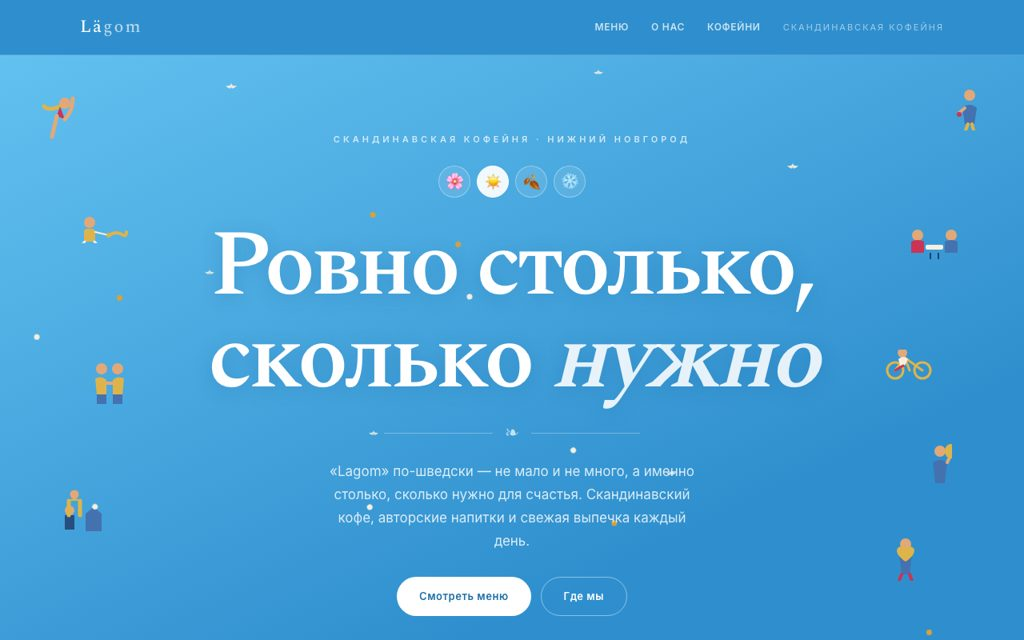
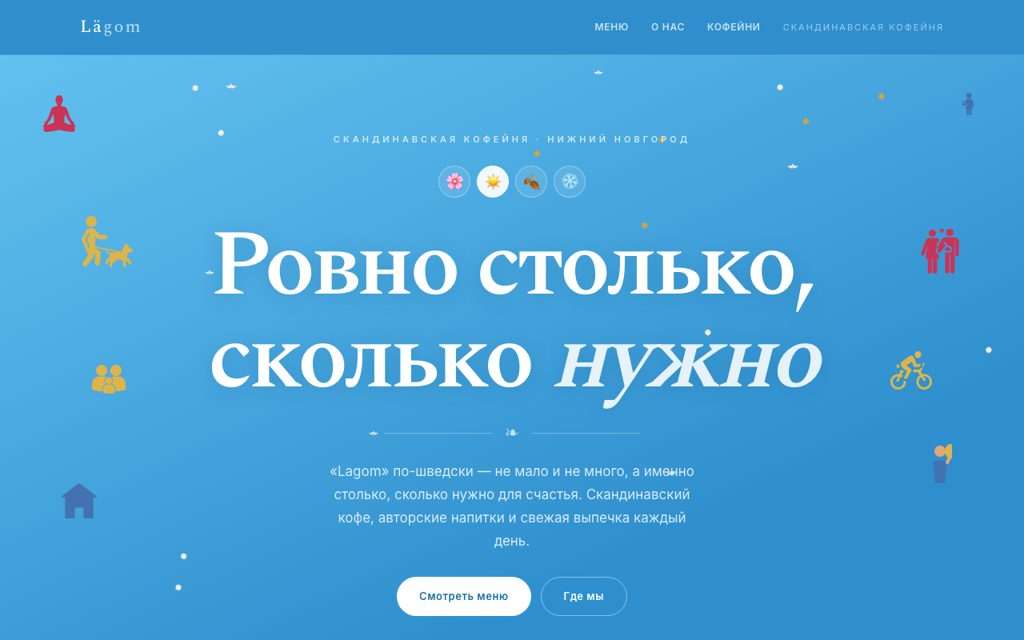
lagom: заменил самодельные иконки на готовые с svgrepo.com (CC0)
Собственноручно нарисованные фигуры людей выглядели плохо. Нашёл и скачал
7 готовых силуэтов на svgrepo.com (лицензия CC0, без атрибуции):
йога, женщина с чашкой, прогулка с собакой, объятия+сердце, семья,
велосипедистка, дом. Перекрасил через fill=var(--book-*) в палитру
обложки книги — коралл/горчичный/синий. Позиции и hf--mid-скрытие на
мобильном сохранены как были (уже проверены на коллизии с текстом).

Исходники и ссылки на источники — в lagom/icons-src/SOURCES.md.
Обновлена превью-миниатюра галереи.

diff --git a/lagom/index.html b/lagom/index.html
@@ -9,7 +9,7 @@
   <link rel="preconnect" href="https://fonts.googleapis.com">
   <link rel="preconnect" href="https://fonts.gstatic.com" crossorigin>
   <link href="https://fonts.googleapis.com/css2?family=Spectral:wght@400;500;600&family=Inter:wght@400;500;600&display=swap" rel="stylesheet">
-  <link rel="stylesheet" href="styles.css?v=3">
+  <link rel="stylesheet" href="styles.css?v=4">
 </head>
 <body>
   <!-- Заставка загрузки: две книги «с торца» разлетаются страницами и сходятся
@@ -42,81 +42,143 @@
   </header>
 
   <section class="hero">
-    <!-- SVG-иллюстрации в стиле настоящей обложки книги «Lagom: The Swedish
-         Secret of Living Well» (Lola A. Åkerström): плоские фигурки людей —
-         йога, прогулка с собакой, кофейня вдвоём, объятия, велосипед,
-         ребёнок на плечах у дома, воздушный шар, сердце — плюс белые ростки. -->
+    <!-- Иконки — готовые SVG с svgrepo.com (лицензия CC0, см. icons-src/SOURCES.md),
+         перекрашены в палитру обложки книги Lagom. Не рисовал сам — руки не доходят
+         до качественных фигур людей, поэтому берём готовые силуэты. -->
     <div class="hero__figures" aria-hidden="true">
 
-      <!-- 🤸 Растяжка/йога — левый верх -->
-      <svg class="hf" style="left:4%;top:6%" width="46" height="58" viewBox="0 0 46 58">
-        <circle cx="30" cy="10" r="7" fill="var(--book-skin)"/>
-        <path d="M24 14Q10 20 4 14" stroke="var(--book-mustard)" stroke-width="5" stroke-linecap="round" fill="none"/>
-        <path d="M24 14L30 30L20 26" fill="var(--book-coral)"/>
-        <path d="M20 26L14 52" stroke="var(--book-skin)" stroke-width="5" stroke-linecap="round"/>
-        <path d="M30 30Q40 20 40 4" stroke="var(--book-skin)" stroke-width="5" stroke-linecap="round" fill="none"/>
+      <!-- 🧘 Йога — левый верх -->
+      <svg class="hf" style="left:4%;top:6%" width="46" height="46" viewBox="0 0 512 512">
+        <path fill="var(--book-coral)" d="M482.752,435.574c-6.928-8.1-23.127-40.492-23.127-40.492s2.676-3.448,0-15.051
+        c-3.48-15.035-18.514-13.886-21.978-17.349c-3.479-3.472-33.549-58.424-35.863-64.792c-2.314-6.369-27.772-78.662-27.772-78.662
+        c-8.549-37.604-24.308-53.221-45.121-57.85c-20.64-4.581-31.817-3.471-41.075-11.571c-5.778-5.054-5.573-8.809-5.573-24.056
+        c0,0,6.235-5.927,10.784-14.122c5.195-9.375,7.746-22.907,7.746-22.907c5.211-2.086,5.274-4.684,7.525-12.965
+        c3.118-11.461,2.897-19.317-5.431-19.317C304.836,19.066,286.085,0,256,0c-30.07,0-48.821,19.066-46.853,56.441
+        c-8.328,0-8.564,7.856-5.432,19.317c2.251,8.281,2.314,10.879,7.51,12.965c0,0,2.55,13.532,7.762,22.907
+        c4.55,8.194,10.784,14.122,10.784,14.122c0,15.247,0.189,19.002-5.589,24.056c-9.242,8.1-20.435,6.99-41.059,11.571
+        c-20.828,4.628-36.572,20.246-45.12,57.85c0,0-25.457,72.294-27.771,78.662c-2.314,6.368-32.401,61.32-35.864,64.792
+        c-3.464,3.463-18.514,2.314-21.978,17.349c-2.676,11.603,0,15.051,0,15.051s-16.2,32.392-23.143,40.492
+        c-6.942,8.092,5.794,13.878,13.886,3.464c0.944,1.409,4.156,2.424,7.793,2.912c-28.228,31.251-12.138,71.964,31.55,69.98
+        C118.291,510.3,256,485.316,256,485.316S393.707,510.3,429.54,511.93c43.688,1.984,59.778-38.729,31.534-69.98
+        c3.652-0.488,6.864-1.503,7.808-2.912C476.974,449.452,489.695,443.666,482.752,435.574z M183.123,383.849
+        c0,0-59.274,17.626-96.192,34.234c7.604-14.154,16.357-33.423,16.357-33.423l37.029-53.212l29.504-64.218
+        c0,0,9.257,34.714,12.138,39.917C184.855,312.35,183.123,383.849,183.123,383.849z M328.891,383.849c0,0-1.732-71.498,1.149-76.702
+        c2.897-5.203,12.154-39.917,12.154-39.917l29.504,64.218l37.013,53.212c0,0,8.769,19.27,16.373,33.423
+        C388.165,401.474,328.891,383.849,328.891,383.849z"/>
       </svg>
 
-      <!-- 🥤 Женщина с напитком — правый верх -->
-      <svg class="hf" style="right:4%;top:5%" width="34" height="52" viewBox="0 0 34 52">
-        <circle cx="17" cy="8" r="7" fill="var(--book-skin)"/>
-        <path d="M8 24Q17 16 26 24L23 44H11Z" fill="var(--book-navy)"/>
-        <path d="M11 24L4 30" stroke="var(--book-skin)" stroke-width="4" stroke-linecap="round"/>
-        <circle cx="4" cy="32" r="3" fill="var(--book-coral)"/>
-        <path d="M15 44L12 52M20 44L22 52" stroke="var(--book-mustard)" stroke-width="4" stroke-linecap="round"/>
+      <!-- ☕ Женщина с чашкой — правый верх -->
+      <svg class="hf" style="right:4%;top:5%" width="38" height="38" viewBox="0 0 395 395">
+        <path fill="var(--book-navy)" d="M209.202,125.721c20.686,0,37.459-16.761,37.459-37.445c0-20.682-16.773-37.449-37.459-37.449
+        c-20.678,0-37.453,16.768-37.453,37.449C171.749,108.96,188.524,125.721,209.202,125.721z"/>
+        <path fill="var(--book-navy)" d="M272.543,222.612c-2.979-39.672-7.764-60.239-17.063-73.355c-11.97-16.884-30.162-18.298-46.275-18.298
+        c-16.666,0-30.262,6.383-40.41,18.971c-7.986,9.907-12.287,21.683-15.743,31.145c-1.527,4.181-3.618,9.906-4.8,11.333
+        c-4.733,5.313-9.021,4.904-11.582,4.66c-0.627-0.06-1.139-0.099-1.521-0.114c-0.16-0.006-0.318-0.009-0.477-0.009
+        c-6.347,0-11.612,5.016-11.865,11.413c-0.257,6.507,4.77,11.998,11.255,12.335l0.351,0.033
+        c12.509,1.193,23.13-3.018,31.585-12.512c4.138-4.646,6.566-11.291,9.375-18.985c1.267-3.468,2.516-6.757,3.814-9.835v28.464
+        L162.22,265.54c-0.3,1.012-0.102,2.099,0.528,2.943c0.631,0.84,1.622,1.336,2.671,1.336h14.605v60.491
+        c0,7.656,6.206,13.862,13.862,13.862c7.656,0,13.862-6.207,13.862-13.862v-60.491h6.242v60.491
+        c0,7.656,6.206,13.862,13.862,13.862c7.656,0,13.862-6.207,13.862-13.862v-60.491h13.239c0.011,0,0.021,0,0.026,0
+        c1.844,0,3.334-1.495,3.334-3.335c0-0.463-0.094-0.906-0.261-1.305l-15.496-52.682v-33.781
+        c2.744,10.599,4.771,25.487,6.287,45.675c0.469,6.241,5.678,10.993,11.836,10.993c0.299,0,0.6-0.011,0.902-0.034
+        C268.128,234.858,273.034,229.155,272.543,222.612z"/>
+        <path fill="var(--book-navy)" d="M127.651,192.15h14.065c1.029,0,1.883-0.771,2.003-1.79l3.21-29.349c0.063-0.567-0.115-1.133-0.499-1.56
+        c-0.382-0.427-0.924-0.67-1.499-0.67h-20.495c-0.582,0-1.117,0.243-1.5,0.67c-0.388,0.426-0.561,0.992-0.502,1.56l3.213,29.349
+        C125.764,191.378,126.617,192.15,127.651,192.15z"/>
       </svg>
 
       <!-- 🐕 Прогулка с собакой — левая сторона -->
-      <svg class="hf hf--mid" style="left:8%;top:24%" width="60" height="34" viewBox="0 0 60 34">
-        <circle cx="10" cy="8" r="7" fill="var(--book-skin)"/>
-        <rect x="3" y="16" width="14" height="16" rx="4" fill="var(--book-mustard)"/>
-        <path d="M4 32L2 34M16 32L18 34" stroke="var(--book-cream)" stroke-width="3" stroke-linecap="round"/>
-        <path d="M17 20L34 24" stroke="var(--book-cream)" stroke-width="2" stroke-linecap="round"/>
-        <path d="M34 24Q44 18 52 24Q56 26 56 20" fill="none" stroke="var(--book-mustard)" stroke-width="4" stroke-linecap="round"/>
-        <circle cx="34" cy="24" r="3" fill="var(--book-mustard)"/>
+      <svg class="hf hf--mid" style="left:8%;top:24%" width="64" height="64" viewBox="0 0 421.127 421.127">
+        <circle fill="var(--book-mustard)" cx="79.697" cy="45.647" r="44.954"/>
+        <path fill="var(--book-mustard)" d="M420.741,275.908c-0.592-1.569-1.814-2.819-3.369-3.447l-19.988-8.063c-1.51-6.524-6.424-11.762-12.761-13.732
+        l-1.035-11.936c-0.206-2.377-1.801-4.405-4.062-5.167c-2.26-0.762-4.758-0.112-6.361,1.655l-3.758,4.145l-2.643-9.25
+        c-0.715-2.502-2.96-4.258-5.561-4.348c-2.615-0.117-4.963,1.506-5.85,3.951l-23.17,63.923l-219.549-44.286v-81.008l15.211,16.391
+        c3.48,4.053,8.531,6.374,13.882,6.374c0.001,0,0,0,0,0c0.163,0-0.162-0.018,0-0.021c0.02,0-0.02,0.003,0,0.003h53.445
+        c10.191,0,18.483-8.29,18.483-18.48c0-10.194-8.292-18.487-18.483-18.487h-45.195l-43.673-46.89c-0.266-0.286,0.304,0.223,0,0
+        c-4.289-4.592-10.392-7.471-17.156-7.471H60.558c-8.589,0-16.112,4.637-20.208,11.536c-0.161,0.228,0.131-0.254,0,0L1.859,186.063
+        c-0.054,0.105-0.104,0.212-0.152,0.319c-2.406,5.451-2.174,11.397,0.107,16.442c0.075,0.213-0.1-0.205,0,0l54.21,118.127
+        l-43.917,59.643c-7.406,8.859-6.317,22.1,2.467,29.608l0.492,0.423c3.823,3.269,8.696,5.068,13.723,5.068
+        c6.194,0,12.053-2.698,16.075-7.403c0.095-0.11-0.086,0.117,0,0c0,0,54.303-73.986,54.489-74.714
+        c2.741-5.021,3.475-11.12,1.485-16.948c-0.062-0.182,0.079,0.174,0,0l-5.771-12.831l18.963,13.314l-7.106,67.516
+        c-0.619,5.612,0.983,11.129,4.513,15.534c3.53,4.406,8.565,7.174,14.164,7.79l0.638,0.072c0.774,0.085,1.559,0.129,2.334,0.129
+        c10.781,0,19.804-8.092,20.992-18.852l8.04-76.408c2.39-8.137-0.261-17.274-7.381-22.74c-0.042-0.032-0.083-0.064-0.126-0.095
+        l-37.461-27.231v-1.232l180.3,36.369l-46.69,3.386c-13.112,1.098-26.044-4.206-34.578-14.179c-2.155-2.517-5.942-2.811-8.46-0.657
+        c-2.518,2.154-2.812,5.942-0.657,8.46c9.326,10.897,22.705,17.469,36.819,18.396c-5.609,6.695-10.614,16.822-11.536,31.984
+        l-19.735,8.772c-1.514,0.673-2.683,1.942-3.229,3.507l-10.598,30.399c-0.527,1.512-0.428,3.172,0.275,4.609
+        c0.703,1.439,1.951,2.536,3.467,3.05l8.152,2.759c0.637,0.216,1.286,0.318,1.924,0.318c2.448,0,4.74-1.51,5.631-3.931l7.274-19.78
+        l11.932-1.436l-3.517,4.242c-1.126,1.358-1.598,3.145-1.288,4.883l5.841,32.741c0.511,2.862,2.999,4.946,5.907,4.946h7.839
+        c1.772,0,3.453-0.783,4.593-2.14c1.14-1.357,1.622-3.147,1.318-4.893l-3.602-20.633l38.324-28.761
+        c0.087-0.065,0.173-0.134,0.258-0.204c2.994-2.515,5.336-5.227,7.182-8.028c12.523,2.986,27.655,6.389,40.982,8.807l7.879,50.771
+        c0.454,2.924,2.971,5.08,5.929,5.08h7.34c3.314,0,6-2.686,6-6v-44.575l13.528,2.949l16.908,27.682
+        c0.839,1.373,2.195,2.353,3.763,2.717c0.449,0.104,0.904,0.155,1.358,0.155c1.13,0,2.248-0.319,3.217-0.936l5.33-3.386
+        c2.414-1.533,3.41-4.557,2.38-7.225l-13.25-34.338c-0.59-1.53-1.781-2.752-3.296-3.381l-21.895-9.095l9.286-42.753
+        c1.655,0.222,3.322,0.343,4.999,0.343c14.338,0,27.462-8.381,34.248-21.871C421.241,279.224,421.333,277.478,420.741,275.908z
+         M67.671,150.447l-24.532,43.972l20.713,42.707c3.94,8.133,1.958,17.972-4.819,23.927c-1.139,1.002-2.552,1.493-3.958,1.493
+        c-1.666,0-3.323-0.689-4.509-2.039c-2.188-2.489-1.943-6.28,0.546-8.468c2.738-2.406,3.537-6.387,1.942-9.679l-22.076-45.517
+        c-0.855-1.762-0.795-3.831,0.159-5.541l26.055-46.701c1.614-2.895,5.27-3.932,8.163-2.316
+        C68.248,143.899,69.285,147.554,67.671,150.447z"/>
       </svg>
 
-      <!-- ☕ Двое за столиком в кофейне — правая сторона -->
-      <svg class="hf hf--mid" style="right:6%;top:26%" width="70" height="40" viewBox="0 0 70 40">
-        <circle cx="14" cy="8" r="7" fill="var(--book-skin)"/>
-        <circle cx="56" cy="8" r="7" fill="var(--book-skin)"/>
-        <path d="M6 30V16Q14 12 22 16V30Z" fill="var(--book-coral)"/>
-        <path d="M48 30V16Q56 12 64 16V30Z" fill="var(--book-navy)"/>
-        <rect x="24" y="20" width="22" height="6" rx="2" fill="var(--book-cream)"/>
-        <line x1="30" y1="30" x2="30" y2="38" stroke="var(--book-charcoal)" stroke-width="2"/>
-        <line x1="40" y1="30" x2="40" y2="38" stroke="var(--book-charcoal)" stroke-width="2"/>
+      <!-- 🤗 Объятия и сердце — правая сторона -->
+      <svg class="hf hf--mid" style="right:6%;top:26%" width="56" height="56" viewBox="0 0 512.001 512.001">
+        <g fill="var(--book-coral)">
+          <path d="M359.297,214.522l-26.905-7.326c-1.329,2.585-2.963,5.062-4.93,7.371l-23.11,27.141l44.26,12.052
+          c10.852,2.954,22.016-3.457,24.961-14.277C376.524,228.648,370.132,217.473,359.297,214.522z"/>
+          <path d="M423.585,97.714c-13.257,0-92.901,0-104.437,0c-18.719,0-36.355,10.207-45.497,27.144l-38.889,72.045
+          c-1.732,3.209-2.593,7.007-2.399,10.719l0.007-0.008c0.354,6.686,3.993,13.03,10.195,16.578l-14.415,16.93
+          c-7.141,8.388-6.132,20.976,2.256,28.117c8.386,7.141,20.975,6.134,28.117-2.256l54.846-64.414
+          c7.514-8.825,6.017-22.338-3.678-29.21l-11.258-8.802c0,0,5.828-11.375,10.847-18.905c0.739-1.11,2.118-1.604,3.394-1.218
+          c1.276,0.386,2.152,1.561,2.152,2.894v7.637c2.918,1.403,5.706,3.195,8.286,5.393c8.04,6.846,12.709,16.475,13.422,26.571
+          l28.184,7.674c21.836,5.945,34.719,28.467,28.772,50.303c-5.943,21.828-28.462,34.717-50.303,28.772l-28.362-7.722l0.009,221.643
+          c0,13.476,10.924,24.4,24.4,24.4c13.476,0,24.4-10.924,24.4-24.4V292.572h10.535v195.029c0,13.476,10.924,24.4,24.4,24.4
+          c13.476,0,24.4-10.924,24.4-24.4l-0.434-341.877c-0.003-2.347,1.897-4.253,4.244-4.256c2.347-0.003,4.253,1.896,4.256,4.244
+          c0,0.01,0,0.02,0,0.03l-0.359,149.281c-0.027,11.23,9.054,20.355,20.284,20.382c0.017,0,0.033,0,0.05,0
+          c11.206-0.001,20.305-9.072,20.331-20.284l0.36-149.38c0-0.05,0-0.1,0-0.151C471.571,119.191,449.985,97.714,423.585,97.714z"/>
+          <circle cx="368.9" cy="42.141" r="42.141"/>
+          <circle cx="169.421" cy="50.761" r="41.343"/>
+          <path d="M241.319,292.45c-8.146-0.423-16.222-3.423-22.911-9.12c-16.172-13.769-18.118-38.04-4.349-54.21l12.216-14.347
+          l-9.608-62.44l13.227,10.129l19.189-35.551l-12.876-9.86c-9.916-7.594-22.256-11.776-34.748-11.776c-35.721,0-36.428,0-66.586,0
+          c-21.349,0-36.865,13.654-46.119,40.584c-14.342,41.735-46.912,130.842-47.239,131.738c-3.783,10.346,1.538,21.799,11.883,25.582
+          c10.367,3.787,21.807-1.556,25.583-11.883c0.278-0.76,39.64-109.972,39.64-109.972S105.481,251.171,90.29,329.86
+          c-1.328,6.861,3.96,13.2,10.878,13.2c4.29,0,9.459,0,15.22,0v145.005c0,13.219,10.717,23.936,23.936,23.936
+          s23.936-10.717,23.936-23.936V343.06c3.441,0,6.893,0,10.334,0v145.005c0,13.219,10.717,23.936,23.936,23.936
+          s23.936-10.717,23.936-23.936V343.06c5.763,0,10.931,0,15.22,0c6.955,0,12.206-6.347,10.878-13.2L241.319,292.45z"/>
+          <path d="M289.492,0c-5.32,0-9.887,3.194-11.908,7.766C275.563,3.194,270.996,0,265.676,0c-7.191,0-13.021,5.83-13.021,13.021
+          c0,14.113,18.057,28.322,23.435,32.243c0.889,0.648,2.097,0.649,2.987,0.001c5.377-3.918,23.435-18.13,23.435-32.243
+          C302.513,5.83,296.683,0,289.492,0z"/>
+        </g>
       </svg>
 
-      <!-- 🤝 Объятия / за руки — середина -->
-      <svg class="hf hf--mid" style="left:9%;top:46%" width="44" height="52" viewBox="0 0 44 52">
-        <circle cx="12" cy="8" r="7" fill="var(--book-skin)"/>
-        <circle cx="32" cy="8" r="7" fill="var(--book-skin)"/>
-        <path d="M4 20Q12 16 18 22L18 40H6Z" fill="var(--book-mustard)"/>
-        <path d="M40 20Q32 16 26 22L26 40H38Z" fill="var(--book-mustard)"/>
-        <rect x="6" y="40" width="12" height="12" fill="var(--book-navy)"/>
-        <rect x="26" y="40" width="12" height="12" fill="var(--book-navy)"/>
-        <path d="M18 26L26 26" stroke="var(--book-skin)" stroke-width="4" stroke-linecap="round"/>
+      <!-- 👪 Семья — середина -->
+      <svg class="hf hf--mid" style="left:9%;top:46%" width="42" height="42" viewBox="0 0 98.666 98.666">
+        <g fill="var(--book-mustard)">
+          <circle cx="49.332" cy="53.557" r="10.297"/>
+          <path d="M53.7,64.556h-8.737c-7.269,0-13.183,5.916-13.183,13.184v10.688l0.027,0.166l0.735,0.229
+          c6.937,2.168,12.965,2.892,17.927,2.892c9.688,0,15.303-2.764,15.65-2.938l0.688-0.351l0.071,0.002V77.739
+          C66.883,70.472,60.971,64.556,53.7,64.556z"/>
+          <circle cx="28.312" cy="23.563" r="16.611"/>
+          <path d="M70.35,40.174c9.174,0,16.609-7.44,16.609-16.613c0-9.17-7.438-16.609-16.609-16.609c-9.176,0-16.61,7.437-16.61,16.609
+          S61.174,40.174,70.35,40.174z"/>
+          <path d="M41.258,62.936c-2.637-2.274-4.314-5.632-4.314-9.378c0-4.594,2.519-8.604,6.243-10.743
+          c-2.425-0.965-5.061-1.511-7.826-1.511H21.266C9.54,41.303,0,50.847,0,62.571v17.241l0.043,0.269L1.23,80.45
+          c10.982,3.432,20.542,4.613,28.458,4.656v-7.367C29.688,70.595,34.623,64.599,41.258,62.936z"/>
+          <path d="M77.398,41.303H63.305c-2.765,0-5.398,0.546-7.824,1.511c3.727,2.139,6.246,6.147,6.246,10.743
+          c0,3.744-1.678,7.102-4.313,9.376c2.656,0.661,5.101,2.02,7.088,4.008c2.888,2.89,4.479,6.726,4.478,10.8v7.365
+          c7.916-0.043,17.477-1.225,28.457-4.656l1.187-0.369l0.044-0.269V62.571C98.664,50.847,89.124,41.303,77.398,41.303z"/>
+        </g>
       </svg>
 
       <!-- 🚲 Велосипедистка — правая сторона -->
-      <svg class="hf hf--mid" style="right:9%;top:44%" width="64" height="46" viewBox="0 0 64 46">
-        <circle cx="18" cy="26" r="10" fill="none" stroke="var(--book-mustard)" stroke-width="3"/>
-        <circle cx="52" cy="26" r="10" fill="none" stroke="var(--book-mustard)" stroke-width="3"/>
-        <path d="M18 26L30 10L52 26" fill="none" stroke="var(--book-mustard)" stroke-width="3" stroke-linecap="round"/>
-        <path d="M30 10L36 26" stroke="var(--book-mustard)" stroke-width="3" stroke-linecap="round"/>
-        <circle cx="27" cy="4" r="6" fill="var(--book-skin)"/>
-        <path d="M22 12Q28 6 34 12L30 20H24Z" fill="var(--book-cream)"/>
-        <path d="M28 20L18 26" stroke="var(--book-coral)" stroke-width="3" stroke-linecap="round"/>
+      <svg class="hf hf--mid" style="right:9%;top:44%" width="52" height="52" viewBox="0 -4.88 122.88 122.88">
+        <path fill="var(--book-mustard)" d="M99.83,67.01c12.72,0,23.05,10.32,23.05,23.05c0,12.72-10.32,23.05-23.05,23.05s-23.05-10.32-23.05-23.05 c0-8.21,3.56-14.68,10.02-18.76l-5.69-9.56h-15c1.52-3.28,2.47-6.09,2.28-7.7h15.32c0.63,0,1.22,0.17,1.74,0.47l1.61-3.35 l0.36-0.04l0,0c0.14-0.02,0.29-0.04,0.44-0.06c4.12-0.77,6.58-3.37,7.6-6.5c0.46-1.41,0.58-2.92,0.39-4.39 c-0.18-1.43-0.67-2.83-1.42-4.07c-0.33-0.54-0.71-1.05-1.13-1.53h3.83v0.02c0.49,0,0.99,0.11,1.47,0.33 c1.74,0.81,2.49,2.88,1.67,4.62L90.1,60.96l3.9,6.8C95.9,67.25,97.86,67.01,99.83,67.01L99.83,67.01z M34.14,30.59l21.03-15.38 c2.47-1.54,5.13-2.57,7.28-2.29c1.79,0.24,3.44,1.21,4.94,3.11c4.56,5.69,6.82,13.5,9.34,22.11l8.87-1.04 c5.07-0.23,6.4,7.22,1.19,8.2l-9.14,1.01c-4.08,0.46-7.06,1.59-9.28-3.01l-4.96-12.44l-14.27,9.92c-0.88,0.92-1.01,1.83-0.13,2.75 l10.71,7.79c1.41,0.95,2.6,1.62,2.89,3.51c0.44,2.84-11.58,21.71-13.68,25.35c-3.69,4.1-10.69,0.39-7.78-4.58l8.14-17.15 c-2.42-1.44-4.77-2.88-7.03-4.32C34.72,49.35,24.69,38.38,34.14,30.59L34.14,30.59z M81.6,0c5.49,0,9.94,4.45,9.94,9.94 c0,5.49-4.45,9.94-9.94,9.94c-5.49,0-9.94-4.45-9.94-9.94C71.66,4.45,76.11,0,81.6,0L81.6,0z M41.25,61.73h-4.77l-2.83,8.23 c1.03,0.49,2,1.04,2.91,1.64l-0.68,1.44c-1.09,2.03-1.45,4.03-1.24,5.88c-1.3-1.35-2.83-2.48-4.54-3.31l0,0l-5.76,13.02 c-0.77,1.76-2.83,2.56-4.59,1.79c-1.76-0.77-2.56-2.83-1.78-4.59l5.24-11.84c-0.05,0-0.11,0-0.16,0c-8.88,0-16.07,7.2-16.07,16.08 c0,8.87,7.2,16.07,16.07,16.07c8.88,0,16.07-7.2,16.07-16.07c0-1.56-0.22-3.06-0.63-4.49c0.15,0.11,0.3,0.22,0.46,0.33 c1.28,0.87,2.76,1.47,4.3,1.72c0.9,0.15,1.82,0.19,2.75,0.12c0.07,0.76,0.1,1.53,0.1,2.32c0,12.72-10.32,23.05-23.05,23.05 C10.32,113.11,0,102.78,0,90.06c0-12.73,10.32-23.05,23.05-23.05c1.07,0,2.12,0.07,3.16,0.21l4.09-11.11 c0.47-1.08,1.43-1.8,2.51-2.01c2.06,1.97,4.27,3.67,6.31,4.96c0.62,0.39,1.5,0.94,2.62,1.63L41.25,61.73L41.25,61.73z M22.13,38.32 h2.32c0.04,1.14,0.2,2.29,0.49,3.43c0.6,2.43,1.75,4.76,3.23,6.93h-6.03l0,0l0,0c-1.13,0-2.17-0.47-2.93-1.22 c-0.77-0.77-1.24-1.82-1.24-2.98l0,0l0,0v-1.94l0,0l0,0c0-1.17,0.47-2.23,1.24-2.98C19.95,38.79,20.99,38.33,22.13,38.32 L22.13,38.32L22.13,38.32L22.13,38.32L22.13,38.32z M98.1,74.07l5.59,8.61c1.05,1.61,0.59,3.76-1.02,4.81 c-1.61,1.05-3.76,0.59-4.81-1.02l-6.53-10.06c-4.55,2.84-7.58,7.89-7.58,13.65c0,8.87,7.2,16.07,16.08,16.07 c8.88,0,16.08-7.2,16.08-16.07c0-8.88-7.2-16.08-16.08-16.08C99.25,73.97,98.67,74.01,98.1,74.07L98.1,74.07L98.1,74.07z"/>
       </svg>
 
-      <!-- 🏠 Ребёнок на плечах у дома — левая нижняя -->
-      <svg class="hf hf--mid" style="left:6%;top:64%" width="52" height="60" viewBox="0 0 52 60">
-        <path d="M30 60V38L40 30L50 38V60Z" fill="var(--book-navy)"/>
-        <circle cx="10" cy="34" r="6" fill="var(--book-skin)"/>
-        <rect x="4" y="40" width="12" height="18" fill="var(--book-charcoal)" opacity=".85"/>
-        <circle cx="16" cy="14" r="5.5" fill="var(--book-skin)"/>
-        <path d="M8 22Q16 16 24 22" fill="var(--book-mustard)"/>
-        <path d="M9 22L9 40M23 22L23 40" stroke="var(--book-mustard)" stroke-width="5" stroke-linecap="round"/>
+      <!-- 🏠 Дом — левая нижняя -->
+      <svg class="hf hf--mid" style="left:6%;top:64%" width="44" height="44" viewBox="0 0 95.664 95.664">
+        <path fill="var(--book-navy)" d="M94.666,34.666L49.334,0.585c-0.889-0.669-2.115-0.669-3.004,0L0.998,34.666c-0.86,0.646-1.21,1.77-0.869,2.79
+        c0.341,1.02,1.296,1.708,2.371,1.708h6.832v53.917c0,1.381,1.119,2.5,2.5,2.5h21.75c1.381,0,2.5-1.119,2.5-2.5V66.165h23.5v26.916
+        c0,1.381,1.119,2.5,2.5,2.5h21.75c1.381,0,2.5-1.119,2.5-2.5V39.164h6.832c1.075,0,2.03-0.688,2.371-1.708
+        C95.876,36.436,95.526,35.312,94.666,34.666z"/>
       </svg>
 
       <!-- 🎈 Воздушный шар — низ-центр -->
@@ -126,14 +188,6 @@
         <path d="M24 24L28 16" stroke="var(--book-skin)" stroke-width="4" stroke-linecap="round"/>
         <ellipse cx="28" cy="10" rx="7" ry="9" fill="var(--book-mustard)"/>
         <line x1="28" y1="19" x2="28" y2="16" stroke="var(--book-mustard)" stroke-width="1.5"/>
-      </svg>
-
-      <!-- ♥ Женщина с сердцем — правая нижняя -->
-      <svg class="hf hf--mid" style="right:10%;top:72%" width="40" height="56" viewBox="0 0 40 56">
-        <circle cx="20" cy="10" r="7" fill="var(--book-skin)"/>
-        <path d="M12 24Q20 18 28 24L25 48H15Z" fill="var(--book-navy)"/>
-        <path d="M15 48L12 56M25 48L28 56" stroke="var(--book-coral)" stroke-width="4" stroke-linecap="round"/>
-        <path d="M20 16C16 10 6 14 10 22C13 28 20 32 20 32C20 32 27 28 30 22C34 14 24 10 20 16Z" fill="var(--book-mustard)"/>
       </svg>
 
       <!-- ✦ Белые ростки-акценты, как на обложке -->
@@ -221,6 +275,6 @@
     </div>
   </footer>
 
-  <script src="script.js?v=2"></script>
+  <script src="script.js?v=3"></script>
 </body>
 </html>

diff --git a/lagom/icons-src/SOURCES.md b/lagom/icons-src/SOURCES.md
@@ -1,0 +1,13 @@
+# Источники иконок hero
+
+Все — с [SVG Repo](https://www.svgrepo.com), лицензия **CC0** (без атрибуции, свободно для коммерческого использования).
+Пути (`<path>`) вставлены inline в `index.html` с перекраской через `fill="var(--book-*)"` под палитру
+обложки книги Lagom. Файлы здесь — исходники «как скачано», для справки.
+
+- yoga.svg — https://www.svgrepo.com/svg/483856/yoga
+- cycling.svg — https://www.svgrepo.com/svg/490678/cycling
+- hug.svg — https://www.svgrepo.com/svg/236829/hug
+- dogwalk.svg — https://www.svgrepo.com/svg/144457/walking-the-dog
+- house.svg — https://www.svgrepo.com/svg/126581/home-silhouette
+- family.svg — https://www.svgrepo.com/svg/151174/family-silhouette
+- coffeewoman.svg — https://www.svgrepo.com/svg/19793/woman-holding-cup
